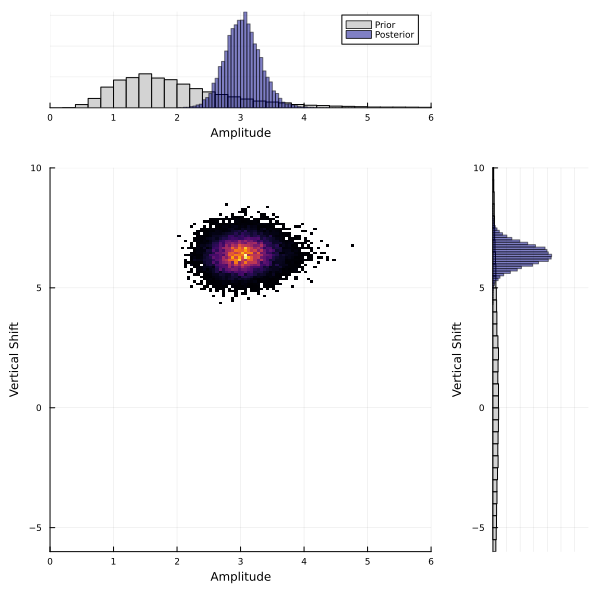
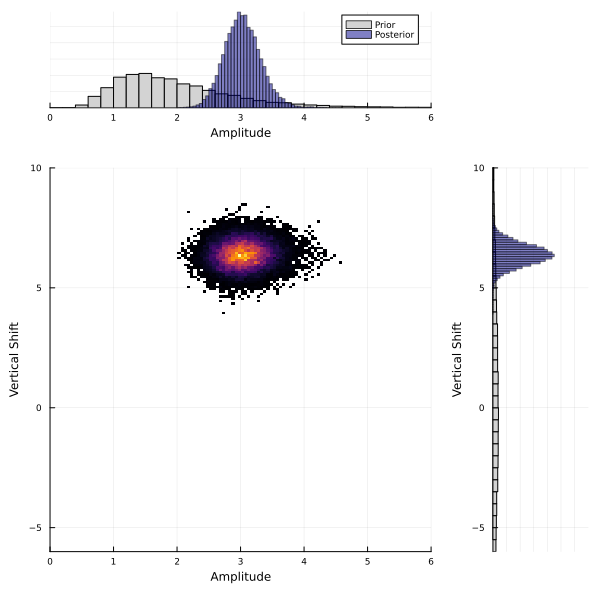
* Copied over code that tracks random number generator `rng` that was in src/examples/Sinusoid/, so now the docs page can be run and is reproducible. This also changed a few numbers slightly that were initially run through the examples pages rather than the docs pages. * `rng` is now saved into `.jl

diff --git a/docs/src/examples/sinusoid_example.md b/docs/src/examples/sinusoid_example.md
@@ -1,7 +1,10 @@
 # Sinusoid Example
 
+!!! info "How do I run this code?"
+    The full code is found in the [`examples/`](https://github.com/CliMA/CalibrateEmulateSample.jl/tree/main/examples) directory of the github repository
+
 ## Background
-This example demonstrates how to use CalibrateEmulateSample.jl for a simple model that generates noisy
+This example demonstrates how to use `CalibrateEmulateSample.jl` for a simple model that generates noisy
 observables of a signal. The sinusoid signal is defined by two parameters: its shift along the vertical axis
 and its amplitude. We make noisy observations of the signal and we can calculate the mean of the signal,
 which is informative about its shift along the axis, and the range of the signal, which is informative 
@@ -31,7 +34,7 @@ where $\Gamma$ is the observational covariance matrix. We will assume the noise 
 
 # Walkthrough of code
 
-The code is split into four sections:
+You can find the full scripts to reproduce this tutorial in `examples/Sinusoid/`. The code is split into four sections:
 
 1. Model set up in `sinusoid_setup.jl`
 2. Calibrate in `calibrate.jl`
@@ -49,6 +52,8 @@ First, we load the packages we need for setting up the model:
 using LinearAlgebra, Random
 using Plots
 using JLD2
+using Statistics, Distributions
+
 ```
 
 We define a model that generates a sinusoid given parameters $\theta=(A,v)$ 
@@ -59,11 +64,12 @@ The model adds a random phase shift upon evaluation.
 # Seed for pseudo-random number generator.
 rng_seed = 41
 rng = Random.MersenneTwister(rng_seed)
-# Define x-axis
-dt = 0.01
-trange = 0:dt:(2 * pi + dt)
 
-function model(amplitude, vert_shift)
+function model(amplitude, vert_shift; rng = Random.GLOBAL_RNG)
+    # Define x-axis
+    dt = 0.01
+    trange = 0:dt:(2 * pi + dt)
+    # Set phi, the random phase
     phi = 2 * pi * rand(rng)
     return amplitude * sin.(trange .+ phi) .+ vert_shift
 end
@@ -79,7 +85,7 @@ vert_shift_true = 7.0
 theta_true = [amplitude_true, vert_shift_true]
 dim_params = 2
 # Generate the "true" signal for these parameters
-signal_true = model(amplitude_true, vert_shift_true)
+signal_true = model(amplitude_true, vert_shift_true; rng = rng)
 ```
 We will observe properties of the signal that inform us about the amplitude and vertical 
 position. These properties will be the range (the difference between the maximum and the minimum),
@@ -95,7 +101,7 @@ observables. We call this $y_{obs}$. The user can choose the observational covar
 dim_output = 2
 Γ = 0.2 * I
 white_noise = MvNormal(zeros(dim_output), Γ)
-y_obs = [y1_true, y2_true] .+ rand(white_noise)
+y_obs = [y1_true, y2_true] .+ rand(rng, white_noise)
 println("Observations:", y_obs)
 ```
 This gives $y_{obs}=(6.15, 6.42)$.
@@ -107,9 +113,9 @@ It will be helpful for us to define a function $G(\theta)$, which returns these 
 (the range and the mean) of the sinusoid given a parameter vector. 
 
 ```julia
-function G(theta)
+function G(theta; rng = Random.GLOBAL_RNG)
     amplitude, vert_shift = theta
-    sincurve = model(amplitude, vert_shift)
+    sincurve = model(amplitude, vert_shift; rng = rng)
     return [maximum(sincurve) - minimum(sincurve), mean(sincurve)]
 end
 ```
@@ -146,7 +152,7 @@ prior_u1 = PD.constrained_gaussian("amplitude", 2, 1, 0, Inf)
 prior_u2 = PD.constrained_gaussian("vert_shift", 0, 5, -Inf, Inf)
 prior = PD.combine_distributions([prior_u1, prior_u2])
 # Plot priors
-p = plot(prior)
+p = plot(prior, fill = :lightgray, rng = rng)
 ```
 ![prior](../assets/sinusoid_prior.png)
 
@@ -167,7 +173,7 @@ and apply the Kalman update to the ensemble.
 for i in 1:N_iterations
     params_i = EKP.get_ϕ_final(prior, ensemble_kalman_process)
 
-    G_ens = hcat([G(params_i[:, i]) for i in 1:N_ensemble]...)
+    G_ens = hcat([G(params_i[:, i]; rng = rng) for i in 1:N_ensemble]...)
 
     EKP.update_ensemble!(ensemble_kalman_process, G_ens)
 end
@@ -178,13 +184,13 @@ Finally, we get the ensemble after the last iteration. This provides our estimat
 final_ensemble = EKP.get_ϕ_final(prior, ensemble_kalman_process)
 
 # Check that the ensemble mean is close to the theta_true
-println("Ensemble mean: ", mean(final_ensemble, dims=2))   # [3.08, 6.37]
+println("Ensemble mean: ", mean(final_ensemble, dims=2))   # [3.05, 6.37]
 println("True parameters: ", theta_true)   # [3.0, 7.0]
 ```
 
 | Parameter         | Truth    | EKI mean |
 | :---------------- | :------: | :----: |
-| Amplitude         |   3.0    | 3.08  |
+| Amplitude         |   3.0    | 3.05  |
 | Vertical shift    |   7.0    | 6.37  |
 
 The EKI ensemble mean at the final iteration is close to the true parameters, which is good.
@@ -262,6 +268,12 @@ For new problems, you may need to play around with these parameter choices.
 More information can be found [here](https://clima.github.io/CalibrateEmulateSample.jl/dev/random_feature_emulator/).
 
 ```julia
+# We have two input dimensions and two output dimensions.
+input_dim = 2
+output_dim = 2
+# Select number of features
+n_features = 60
+nugget = 1e-9
 kernel_structure = NonseparableKernel(LowRankFactor(2, nugget))
 optimizer_options = Dict(
     "n_ensemble" => 50,
@@ -353,16 +365,21 @@ using CalibrateEmulateSample.MarkovChainMonteCarlo
 ```
 
 We will provide the API with the observations, priors and our cheap emulator from the previous section. In this 
-example we use the GP emulator. 
-
+example we use the GP emulator. First, we need to find a suitable starting point, ideally one that is near the posterior distribution. We will use the final ensemble mean from EKI as this will increase the chance of acceptance near the start of the chain, and reduce burn-in time.
 ```julia
-mcmc = MCMCWrapper(RWMHSampling(), y_obs, prior, emulator; init_params = init_sample)
+init_sample = EKP.get_u_mean_final(ensemble_kalman_process)
+println("initial parameters: ", init_sample)    # (1.11, 6.37)
+```
+
+Now, we can set up and carry out the MCMC starting from this point. 
+```julia
+mcmc = MCMCWrapper(RWMHSampling(), y_obs, prior, emulator_gp; init_params = init_sample)
 # First let's run a short chain to determine a good step size
-new_step = optimize_stepsize(mcmc; init_stepsize = 0.1, N = 2000, discard_initial = 0)
+new_step = optimize_stepsize(mcmc; rng = rng, init_stepsize = 0.1, N = 2000, discard_initial = 0)
 
 # Now begin the actual MCMC
 println("Begin MCMC - with step size ", new_step)
-chain = MarkovChainMonteCarlo.sample(mcmc, 100_000; stepsize = new_step, discard_initial = 2_000)
+chain = MarkovChainMonteCarlo.sample(mcmc, 100_000; rng = rng, stepsize = new_step, discard_initial = 2_000)
 
 # We can print summary statistics of the MCMC chain
 display(chain)
@@ -370,8 +387,8 @@ display(chain)
 
 | parameters         | mean    | std |
 | :---------------- | :------: | :----: |
-| amplitude         |   1.1049 | 0.0942  |
-| vert_shift        |   6.3753 | 0.4591  |
+| amplitude         |   1.1068 | 0.0943  |
+| vert_shift        |   6.3897 | 0.4601  |
 
 Note that these values are provided in the unconstrained space. The vertical shift
 seems reasonable, but the amplitude is not. This is because the amplitude is constrained to be
@@ -385,14 +402,16 @@ posterior = MarkovChainMonteCarlo.get_posterior(mcmc, chain)
 constrained_posterior = Emulators.transform_unconstrained_to_constrained(
     prior, MarkovChainMonteCarlo.get_distribution(posterior)
 )
+println("Amplitude mean: ", mean(constrained_posterior["amplitude"]), ", std: ", std(constrained_posterior["amplitude"]))
+println("Vertical shift mean: ", mean(constrained_posterior["vert_shift"]), ", std: ", std(constrained_posterior["vert_shift"]))
 ```
 This gives:
 
 
 | parameters         | mean    | std |
 | :---------------- | :------: | :----: |
-| amplitude         |   3.0324 | 0.2863  |
-| vert_shift        |   6.3753 | 0.4591  |
+| amplitude         |   3.0382 | 0.2861  |
+| vert_shift        |   6.3897 | 0.4601  |
 
 This is in agreement with the true $\theta=(3.0, 7.0)$ and with the observational covariance matrix we provided $\Gamma=0.2 * I$ (i.e., a standard deviation of approx. $0.45$). `CalibrateEmulateSample.jl` has built-in plotting
 recipes to help us visualize the prior and posterior distributions.  Note that these are the
@@ -400,8 +419,8 @@ marginal distributions.
 
 ```julia
 # We can quickly plot priors and posterior using built-in capabilities
-p = plot(prior)
-plot!(posterior)
+p = plot(prior, fill = :lightgray, rng = rng)
+plot!(posterior, fill = :darkblue, alpha = 0.5, rng = rng, size = (800, 200))
 
 ```
 ![GP_posterior](../assets/sinusoid_posterior_GP.png)

diff --git a/docs/src/examples/edmf_example.md b/docs/src/examples/edmf_example.md
@@ -1,5 +1,8 @@
 # Extended Eddy-Diffusivity Mass-Flux (EDMF) Scheme
 
+!!! info "How do I run this code?"
+    The full code is found in the [`examples/`](https://github.com/CliMA/CalibrateEmulateSample.jl/tree/main/examples) directory of the github repository
+
 ## Background
 The extended EDMF scheme is a unified model of turbulence and convection. More information about the model can be found [here](https://clima.github.io/TurbulenceConvection.jl/stable/). This example builds an emulator of the extended EDMF scheme from input-output pairs obtained during a calibration process, and runs emulator-based MCMC to obtain an estimate of the joint parameter distribution.
 
@@ -24,6 +27,7 @@ and call,
 ```
 > julia --project uq_for_EDMF.jl
 ```
+
 !!! info
     These runs take currently take ~1-3 hours to complete with Gaussian process emulator. Random feature training currently requires significant multithreading for performance and takes a similar amount of time.
 

diff --git a/docs/src/examples/lorenz_example.md b/docs/src/examples/lorenz_example.md
@@ -1,5 +1,8 @@
 # Lorenz 96 example
 
+!!! info "How do I run this code?"
+    The full code is found in the [`examples/`](https://github.com/CliMA/CalibrateEmulateSample.jl/tree/main/examples) directory of the github repository
+
 The Lorenz 96 (hereafter L96) example is a toy-problem for the application of the `CalibrateEmulateSample.jl` optimization and approximate uncertainty quantification methodologies.
 Here is L96 with additional periodic-in-time forcing, we try to determine parameters (sinusoidal amplitude and stationary component of the forcing) from some output statistics.
 The standard L96 equations are implemented with an additional forcing term with time dependence.

diff --git a/docs/src/examples/emulators/lorenz_integrator_3d_3d.md b/docs/src/examples/emulators/lorenz_integrator_3d_3d.md
@@ -1,5 +1,8 @@
 # Integrating Lorenz 63 with an emulated integrator
 
+!!! info "How do I run this code?"
+    The full code is found in the [`examples/Emulator/`](https://github.com/CliMA/CalibrateEmulateSample.jl/tree/main/examples/Emulator) directory of the github repository
+
 In this example, we assess directly the performance of our machine learning emulators. The task is to learn the forward Euler integrator of a [Lorenz 63 system](https://en.wikipedia.org/wiki/Lorenz_system). The model parameters are set to their classical settings ``(\sigma, \rho, \beta) = (10,28,\frac{8}{3})`` to exhibit chaotic behavior. The discrete system is given as:
 
 ```math

diff --git a/docs/src/examples/emulators/ishigami_3d_1d.md b/docs/src/examples/emulators/ishigami_3d_1d.md
@@ -1,5 +1,8 @@
 # Global Sensitiviy Analysis for an emulated Ishigami function
 
+!!! info "How do I run this code?"
+    The full code is found in the [`examples/Emulator/`](https://github.com/CliMA/CalibrateEmulateSample.jl/tree/main/examples/Emulator) directory of the github repository
+
 In this example, we assess directly the performance of our machine learning emulators. The task is to learn a function for use in a [global sensitivity analysis](https://en.wikipedia.org/wiki/Variance-based_sensitivity_analysis). In particular, we learn the Ishigami function
 ```math
 f(x; a, b) = (1 + bx_3^4)\sin(x_1) + a \sin(x_2), \forall x\in [-\pi,\pi]^3

diff --git a/docs/src/examples/Cloudy_example.md b/docs/src/examples/Cloudy_example.md
@@ -1,5 +1,7 @@
 # [Learning the initial parameters of a droplet mass distribution in Cloudy](@id Cloudy-example)
 
+!!! info "How do I run this code?"
+    The full code is found in the [`examples/`](https://github.com/CliMA/CalibrateEmulateSample.jl/tree/main/examples) directory of the github repository
 
 This example is based on [Cloudy](https://github.com/CliMA/Cloudy.jl.git), a
 microphysics model that simulates how cloud droplets collide and coalesce into

diff --git a/docs/src/examples/emulators/regression_2d_2d.md b/docs/src/examples/emulators/regression_2d_2d.md
@@ -1,5 +1,8 @@
 # Regression of ``\mathbb{R}^2 \to \mathbb{R}^2`` smooth function
 
+!!! info "How do I run this code?"
+    The full code is found in the [`examples/Emulator/`](https://github.com/CliMA/CalibrateEmulateSample.jl/tree/main/examples/Emulator) directory of the github repository
+
 In this example, we assess directly the performance of our machine learning emulators. The task is to learn the function:
 
 ```math

diff --git a/paper.md b/paper.md
@@ -19,7 +19,7 @@ authors:
   - name: Michael Howland
     orcid: 0000-0002-2878-3874
     affiliation: 4
-  - name: Andre De Souza
+  - name: Andre Nogueira de Souza
     orcid: 
     affiliation: 5
   - name: Laura Anne Mansfield
